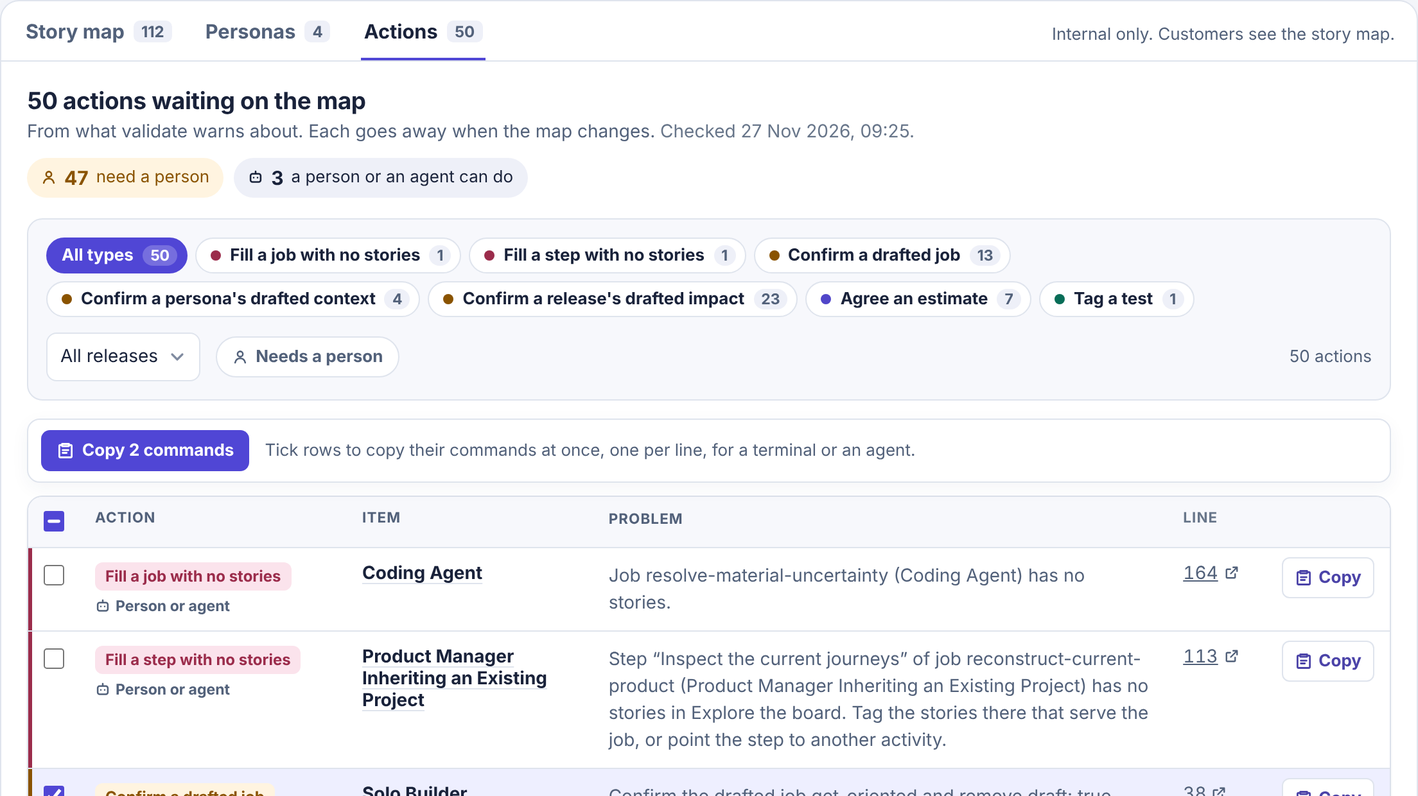
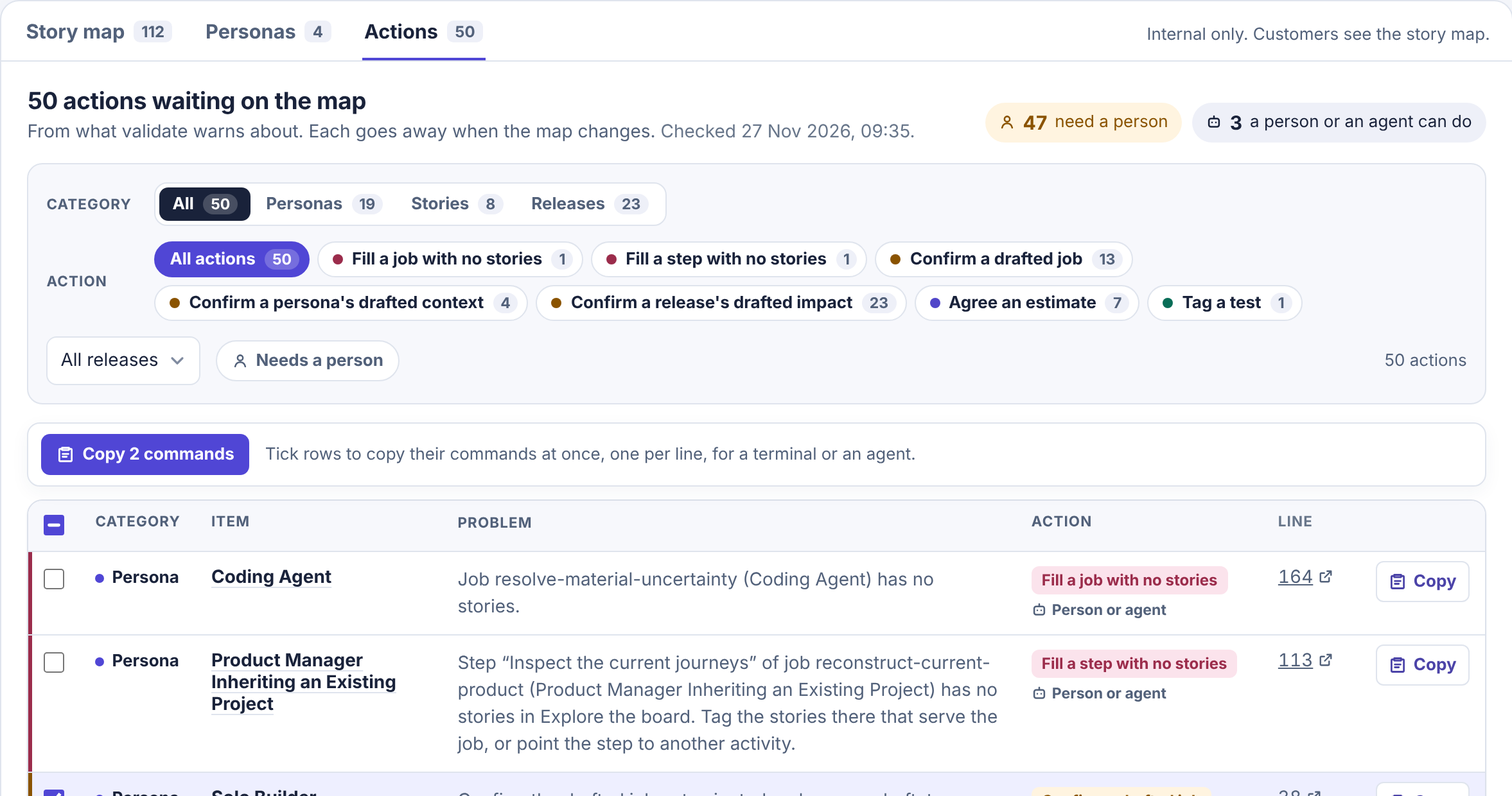
ESM-128: Add a Category column and filter, and move Action after Problem
Claude-Session: https://claude.ai/code/session_01Lq2MQQazU2F98gEqQ6vB8y

diff --git a/src/react.tsx b/src/react.tsx
@@ -5,7 +5,7 @@ import { releaseEstimatesText } from "./export.js";
 import { jobStepGaps, withoutFinalPunctuation } from "./personas.js";
 import { storyReadinessLabels, storyReadinessText } from "./readiness.js";
 import { storyMapAnchorId, storyMapPermalink } from "./permalink.js";
-import { filterStoryMapActions, countStoryMapActions, storyMapActionKinds, type StoryMapAction, type StoryMapActionFilter, type StoryMapActionGroup } from "./actions.js";
+import { filterStoryMapActions, countStoryMapActions, storyMapActionItemTypes, storyMapActionKinds, type StoryMapAction, type StoryMapActionFilter, type StoryMapActionGroup } from "./actions.js";
 import type { ReleaseImpact, StoryMapJob } from "./schema.js";
 import { storyMapAuthor, storyMapCommit, storyMapLicense, storyMapRepositoryUrl, storyMapVersion } from "./version.js";
 import type { InternalReleaseLabel, InternalStoryCard, PersonaJobLabel, PersonaLabel, ReleaseEstimates, StoryChangeEntry, StoryDependency, StoryHistoryEntry, StoryMapLabel, StoryMapRecentUpdates, StoryMapView, StoryTestLink } from "./view.js";
@@ -1882,6 +1882,7 @@ function actionsHref(filter: NonNullable<StoryMapView["filter"]>, preservedParam
   const params = boardParams(filter, preservedParams);
   params.set("view", "actions");
   if (actions.kind) params.set("action-kind", actions.kind);
+  if (actions.itemType) params.set("action-item-type", actions.itemType);
   if (actions.release) params.set("action-release", actions.release);
   if (actions.item) params.set("action-item", actions.item);
   if (actions.needsPerson) params.set("needs-person", "1");
@@ -1943,6 +1944,10 @@ function ActionKindBadge({ group }: { group: StoryMapActionGroup }) {
   return <span className="esm-kind" data-category={group.category} title={group.why}>{group.title}</span>;
 }
 
+/** What the Category column calls each kind of item. */
+const itemTypeLabels: Record<StoryMapAction["item"]["type"], string> = { persona: "Persona", story: "Story", release: "Release", map: "Map" };
+const itemTypePlurals: Record<StoryMapAction["item"]["type"], string> = { persona: "Personas", story: "Stories", release: "Releases", map: "Whole map" };
+
 /** One row of the Actions table: an action and the kind it belongs to. */
 interface ActionRow {
   group: StoryMapActionGroup;
@@ -1983,9 +1988,10 @@ function ActionTable({ rows, links, releaseTitles, tableId }: {
                   <input type="checkbox" data-esm-select-all="" aria-label="Choose every row with a command" />
                 </th>
               )}
-              <th scope="col" className="esm-action-kind">Action</th>
+              <th scope="col" className="esm-action-type">Category</th>
               <th scope="col">Item</th>
               <th scope="col" className="esm-action-message">Problem</th>
+              <th scope="col" className="esm-action-kind">Action</th>
               {showLine && <th scope="col" className="esm-action-line">Line</th>}
               {commands > 0 && <th scope="col" className="esm-action-copy-cell"><span className="esm-visually-hidden">Copy command</span></th>}
             </tr>
@@ -2001,17 +2007,18 @@ function ActionTable({ rows, links, releaseTitles, tableId }: {
                       {action.command && <input type="checkbox" data-esm-select={action.command} aria-label={`Choose ${group.title}: ${item?.label ?? ""}`} />}
                     </td>
                   )}
+                  <td className="esm-action-type"><span className="esm-item-type" data-item-type={action.item.type}>{itemTypeLabels[action.item.type]}</span></td>
+                  <th scope="row" className="esm-action-item">
+                    {item && (item.href ? <a href={item.href}>{item.label}</a> : <span>{item.label}</span>)}
+                    {release && <span className="esm-action-release">{release}</span>}
+                  </th>
+                  <td className="esm-action-message">{action.message}</td>
                   <td className="esm-action-kind">
                     <div className="esm-action-kind-stack">
                       <ActionKindBadge group={group} />
                       <WhoActs needsPerson={action.needsPerson} />
                     </div>
                   </td>
-                  <th scope="row" className="esm-action-item">
-                    {item && (item.href ? <a href={item.href}>{item.label}</a> : <span>{item.label}</span>)}
-                    {release && <span className="esm-action-release">{release}</span>}
-                  </th>
-                  <td className="esm-action-message">{action.message}</td>
                   {showLine && <td className="esm-action-line"><ActionLine action={action} links={links} /></td>}
                   {commands > 0 && <td className="esm-action-copy-cell">{action.command && <CopyCommandButton command={action.command} label={`${group.title}, ${item?.label ?? ""}`} />}</td>}
                 </tr>
@@ -2072,6 +2079,7 @@ function ActionsPage({ groups, filter, preservedParams, releases, links, checked
     return filterStoryMapActions(groups, rest);
   };
   const kindGroups = otherThan("kind");
+  const typeGroups = otherThan("itemType");
   const releaseIds = new Set(otherThan("release").flatMap(group => group.actions.flatMap(action => action.release ? [action.release] : [])));
   const releaseTitles = new Map(releases.map(release => [release.id, release.title]));
   const releaseTitle = (id: string) => releaseTitles.get(id) ?? id;
@@ -2096,10 +2104,24 @@ function ActionsPage({ groups, filter, preservedParams, releases, links, checked
       </div>
       {total > 0 && (
         <nav className="esm-actions-filters" aria-label="Filter actions">
-          <ul className="esm-kind-chips" aria-label="Action type">
+          <div className="esm-actions-filter-group">
+            <span className="esm-actions-filter-label" id={`${baseId}-category-label`}>Category</span>
+            <ul className="esm-segments" aria-labelledby={`${baseId}-category-label`}>
+              <li><a className="esm-segment" href={without("itemType")} aria-current={!chosen.itemType ? "true" : undefined}>All <span className="esm-kind-chip-count">{countStoryMapActions(typeGroups)}</span></a></li>
+              {storyMapActionItemTypes.flatMap(type => {
+                const count = typeGroups.reduce((sum, group) => sum + group.actions.filter(action => action.item.type === type).length, 0);
+                return count || chosen.itemType === type
+                  ? [<li key={type}><a className="esm-segment" data-item-type={type} href={href({ itemType: type })} aria-current={chosen.itemType === type ? "true" : undefined}>{itemTypePlurals[type]} <span className="esm-kind-chip-count">{count}</span></a></li>]
+                  : [];
+              })}
+            </ul>
+          </div>
+          <div className="esm-actions-filter-group">
+          <span className="esm-actions-filter-label" id={`${baseId}-action-label`}>Action</span>
+          <ul className="esm-kind-chips" aria-labelledby={`${baseId}-action-label`}>
             <li>
               <a className="esm-kind-chip" href={without("kind")} aria-current={!chosen.kind ? "true" : undefined}>
-                All types <span className="esm-kind-chip-count">{countStoryMapActions(kindGroups)}</span>
+                All actions <span className="esm-kind-chip-count">{countStoryMapActions(kindGroups)}</span>
               </a>
             </li>
             {kindGroups.map(group => (
@@ -2110,6 +2132,7 @@ function ActionsPage({ groups, filter, preservedParams, releases, links, checked
               </li>
             ))}
           </ul>
+          </div>
           <div className="esm-actions-filter-row">
             {releaseIds.size > 0 && (
               <ActionFilterMenu

diff --git a/styles.css b/styles.css
@@ -677,6 +677,19 @@ button.esm-persona-chip:hover { background: var(--esm-hover); }
 .esm-actions-intro .esm-actions-split span[data-person] { background: var(--esm-stalled-bg); color: var(--esm-stalled); }
 .esm-actions-split b { font-size: .9375rem; }
 .esm-actions-filters { display: grid; gap: 12px; margin: 0 0 14px; padding: 14px; border: 1px solid var(--esm-line); border-radius: 12px; background: var(--esm-canvas); }
+.esm-actions-filter-group { display: grid; grid-template-columns: 4.5rem minmax(0, 1fr); align-items: center; gap: 8px 12px; }
+.esm-actions-filter-label { color: var(--esm-muted); font-size: .7rem; font-weight: 750; letter-spacing: .05em; text-transform: uppercase; }
+.esm-segments { display: inline-flex; flex-wrap: wrap; justify-self: start; gap: 2px; margin: 0; padding: 3px; border: 1px solid var(--esm-line); border-radius: 10px; background: var(--esm-paper); list-style: none; }
+.esm-segment { display: inline-flex; align-items: center; gap: 7px; padding: 5px 10px; border-radius: 7px; color: var(--esm-muted); font-size: .8125rem; font-weight: 650; text-decoration: none; }
+.esm-segment:hover { background: var(--esm-hover); color: var(--esm-ink); }
+.esm-segment[aria-current] { background: var(--esm-ink); color: var(--esm-paper); }
+.esm-segment[aria-current] .esm-kind-chip-count { background: rgb(255 255 255 / .2); color: inherit; }
+.esm-item-type { display: inline-flex; align-items: center; gap: 6px; color: var(--esm-ink); font-size: .8125rem; font-weight: 650; white-space: nowrap; }
+.esm-item-type::before { content: ""; width: 7px; height: 7px; border-radius: 2px; background: var(--esm-faint); }
+.esm-item-type[data-item-type="persona"]::before { border-radius: 50%; background: var(--esm-persona-0); }
+.esm-item-type[data-item-type="story"]::before { background: var(--esm-status-in-progress); }
+.esm-item-type[data-item-type="release"]::before { background: var(--esm-lane-1-ink); }
+.esm-action-table .esm-action-type { width: 1%; }
 .esm-kind-chips { display: flex; flex-wrap: wrap; gap: 6px; margin: 0; padding: 0; list-style: none; }
 .esm-kind-chip { display: inline-flex; align-items: center; gap: 7px; padding: 5px 7px 5px 11px; border: 1px solid var(--esm-line); border-radius: 999px; background: var(--esm-paper); color: var(--esm-ink); font-size: .8125rem; font-weight: 650; text-decoration: none; }
 .esm-kind-chip:hover { border-color: var(--esm-card-hover); }
@@ -725,7 +738,7 @@ button.esm-persona-chip:hover { background: var(--esm-hover); }
 .esm-action-table tbody tr { box-shadow: inset 3px 0 0 var(--esm-kind-ink, transparent); }
 .esm-action-table tbody tr:hover { background: var(--esm-hover); }
 .esm-action-table tbody tr:has(input[data-esm-select]:checked) { background: var(--esm-activity-bg); }
-.esm-action-table .esm-action-kind { width: 13rem; }
+.esm-action-table .esm-action-kind { width: 12rem; }
 .esm-action-kind-stack { display: grid; justify-items: start; gap: 5px; }
 .esm-action-table .esm-action-item { min-width: 10rem; max-width: 18rem; font-weight: 650; }
 .esm-action-table .esm-action-item a { color: var(--esm-ink); text-decoration-color: var(--esm-line); text-underline-offset: 3px; }
@@ -929,6 +942,7 @@ button.esm-persona-chip:hover { background: var(--esm-hover); }
   .esm-persona-page { display: block; }
   .esm-actions { padding: 14px 12px 20px; }
   .esm-actions-filters .esm-results { margin-left: 0; flex-basis: 100%; }
+  .esm-actions-filter-group { grid-template-columns: 1fr; gap: 6px; }
   .esm-action .esm-action-line { margin-left: 0; }
   .esm-action-scroll { overflow: visible; }
   .esm-action-table thead { position: absolute; width: 1px; height: 1px; overflow: hidden; clip-path: inset(50%); white-space: nowrap; }

diff --git a/src/filter.ts b/src/filter.ts
@@ -1,4 +1,4 @@
-import { isStoryMapActionKind, type StoryMapActionFilter } from "./actions.js";
+import { isStoryMapActionItemType, isStoryMapActionKind, type StoryMapActionFilter } from "./actions.js";
 import { activeStoryStatuses, customerStoryStatuses, isActiveStatus, storyStatuses, type StoryStatusFilter } from "./status.js";
 import { jobStatement } from "./personas.js";
 import type { InternalStoryCard, StoryMapLabel, StoryMapView } from "./view.js";
@@ -78,7 +78,7 @@ function readStatuses(value: unknown): StoryStatusFilter[] {
  * `persona`, `job`, `activity` and `view` parameters, and a permalink's `story` or `release`. `status` can repeat, once for each chosen
  * status or `stalled`, and `status=all` chooses every status. `persona`, `job`
  * and `activity` repeat, once for each ID. `view=personas` opens the Personas
- * tab and `view=actions` the Actions tab, which reads `action-kind`, `action-release`,
+ * tab and `view=actions` the Actions tab, which reads `action-kind`, `action-item-type`, `action-release`,
  * `action-item` and `needs-person=1`. Unknown values are ignored.
  */
 export function readStoryMapFilters(params: URLSearchParams): StoryMapFilters {
@@ -93,10 +93,12 @@ export function readStoryMapFilters(params: URLSearchParams): StoryMapFilters {
   const viewParam = params.get("view");
   const view = viewParam === "personas" || viewParam === "actions" ? viewParam : undefined;
   const actionKind = params.get("action-kind") ?? undefined;
+  const actionItemType = params.get("action-item-type") ?? undefined;
   const [actionRelease] = readIds(params.getAll("action-release"));
   const [actionItem] = readIds(params.getAll("action-item"));
   const actions: StoryMapActionFilter = {
     ...(isStoryMapActionKind(actionKind) ? { kind: actionKind } : {}),
+    ...(isStoryMapActionItemType(actionItemType) ? { itemType: actionItemType } : {}),
     ...(actionRelease ? { release: actionRelease } : {}),
     ...(actionItem ? { item: actionItem } : {}),
     ...(params.get("needs-person") === "1" ? { needsPerson: true } : {}),
@@ -166,9 +168,10 @@ export function filterStoryMapView<View extends StoryMapView>(
   // Action filters only count for values the view has, so customers and unknown IDs change nothing.
   const actionFilter: StoryMapActionFilter = {};
   if (internal && filters.actions) {
-    const { kind, release, item, needsPerson } = filters.actions;
+    const { kind, itemType, release, item, needsPerson } = filters.actions;
     const itemIds = new Set(view.actions.flatMap(group => group.actions.flatMap(action => "id" in action.item ? [action.item.id] : [])));
     if (isStoryMapActionKind(kind)) actionFilter.kind = kind;
+    if (isStoryMapActionItemType(itemType)) actionFilter.itemType = itemType;
     if (release !== undefined && view.releases.some(entry => entry.id === release)) actionFilter.release = release;
     if (item !== undefined && itemIds.has(item)) actionFilter.item = item;
     if (needsPerson === true) actionFilter.needsPerson = true;

diff --git a/src/actions.ts b/src/actions.ts
@@ -261,6 +261,8 @@ export const countStoryMapActions = (groups: readonly StoryMapActionGroup[]) => 
 /** What the tab, a panel or `story-map actions` narrows the list to. Each is optional. */
 export interface StoryMapActionFilter {
   kind?: StoryMapWarningKind;
+  /** Only actions on this kind of item: stories, releases, personas or the map as a whole. */
+  itemType?: StoryMapActionItem["type"];
   /** Only actions in this release. */
   release?: string;
   /** Only actions on this story, release or persona. */
@@ -275,7 +277,8 @@ export function filterStoryMapActions(groups: readonly StoryMapActionGroup[], fi
     if (filter.kind && group.kind !== filter.kind) return [];
     if (filter.needsPerson && !group.needsPerson) return [];
     const actions = group.actions.filter(action =>
-      (!filter.release || action.release === filter.release)
+      (!filter.itemType || action.item.type === filter.itemType)
+      && (!filter.release || action.release === filter.release)
       && (!filter.item || ("id" in action.item && action.item.id === filter.item)));
     return actions.length ? [{ ...group, actions }] : [];
   });
@@ -284,3 +287,10 @@ export function filterStoryMapActions(groups: readonly StoryMapActionGroup[], fi
 /** True when `value` names a kind of action. */
 export const isStoryMapActionKind = (value: unknown): value is StoryMapWarningKind =>
   typeof value === "string" && (storyMapWarningKinds as readonly string[]).includes(value);
+
+/** The kinds of item an action can be on, in the order the Actions tab offers them. */
+export const storyMapActionItemTypes = ["persona", "story", "release", "map"] as const satisfies readonly StoryMapActionItem["type"][];
+
+/** True when `value` names a kind of item. */
+export const isStoryMapActionItemType = (value: unknown): value is StoryMapActionItem["type"] =>
+  typeof value === "string" && (storyMapActionItemTypes as readonly string[]).includes(value);

diff --git a/src/cli.ts b/src/cli.ts
@@ -28,7 +28,7 @@ const usage = `Usage:
   story-map story [--format text|json] [--map <path>] [--history <file>] [--tests-index <file>] <ID> [...]
   story-map stories [--format text|json] [--map <path>] [--status <status>] [--release <ID>] [--activity <ID>] [--persona <ID>] [--job <ID>] [--readiness <state>] [--query <text>] [--changed-within <days>] [--history <file>] [--tests-index <file>]
   story-map releases [--format text|json] [--map <path>] [--history <file>] [--tests-index <file>] [<release ID> ...]
-  story-map actions [--format text|json] [--map <path>] [--kind <kind>] [--release <ID>] [--needs-person] [--tests <path> | --tests-index <file>] [--root <path>]
+  story-map actions [--format text|json] [--map <path>] [--kind <kind>] [--item-type <type>] [--release <ID>] [--needs-person] [--tests <path> | --tests-index <file>] [--root <path>]
   story-map evidence [--format text|json] [--map <path>] [--root <path>] [--default-branch <name>] [--plans <path>] [--tests <path>] [--history <file>] [--shipped-tags <pattern>] [--claims] [--claims-remote <name>] [--claims-store <dir>] [<ID> ...]
   story-map survey [--format text|json] [--root <path>] [--tags <pattern>] [--changelog <file>] [--docs <path>] [--plans <path>]
   story-map claim [--format text|json] [--map <path>] [--remote <name>] [--store <dir>] --agent <name> [--ttl <duration>] [--branch <name>] [--renew | --take-over] <ID>
@@ -182,6 +182,7 @@ actions
   --format json      Print the groups and actions as JSON.
   --map <path>       Map to read. Defaults to product/story-map.yaml.
   --kind <kind>      Only actions of this kind, such as missing-estimate.
+  --item-type <type> Only actions on a persona, story, release or the map.
   --release <ID>     Only actions on this release or its stories.
   --needs-person     Only actions a person must take.
   --tests <path>     Scan tests under <path>, as validate --tests does, so

diff --git a/src/commands/actions.ts b/src/commands/actions.ts
@@ -1,5 +1,5 @@
 import { resolve } from "node:path";
-import { countStoryMapActions, filterStoryMapActions, getStoryMapActions, isStoryMapActionKind, storyMapActionKindOrder, type StoryMapAction, type StoryMapActionFilter } from "../actions.js";
+import { countStoryMapActions, filterStoryMapActions, getStoryMapActions, isStoryMapActionItemType, isStoryMapActionKind, storyMapActionItemTypes, storyMapActionKindOrder, type StoryMapAction, type StoryMapActionFilter } from "../actions.js";
 import { buildStoryMapTests, findStoryTests } from "../tests.js";
 import type { StoryMapTests } from "../tests-index.js";
 import { ArgumentError, count, defineCommand, escapeText, loadInputsOrReport, loadMapOrReport, optionValue, printJson, readFormat, report } from "./shared.js";
@@ -39,6 +39,10 @@ export default defineCommand({
         const kind = value();
         if (!isStoryMapActionKind(kind)) throw new ArgumentError(`--kind must be one of ${storyMapActionKindOrder.join(", ")}`);
         options.filter.kind = kind;
+      } else if (name === "--item-type") {
+        const type = value();
+        if (!isStoryMapActionItemType(type)) throw new ArgumentError(`--item-type must be one of ${storyMapActionItemTypes.join(", ")}`);
+        options.filter.itemType = type;
       } else if (arg === "--needs-person") options.filter.needsPerson = true;
       else return null;
     }

diff --git a/src/index.ts b/src/index.ts
@@ -8,7 +8,7 @@ export {
   storyMapWarnings,
   storyStatuses,
 } from "./schema.js";
-export { countStoryMapActions, filterStoryMapActions, getStoryMapActions, isStoryMapActionKind, storyMapActionKindOrder, storyMapActionKinds, untestedStoryWarnings } from "./actions.js";
+export { countStoryMapActions, filterStoryMapActions, getStoryMapActions, isStoryMapActionItemType, isStoryMapActionKind, storyMapActionItemTypes, storyMapActionKindOrder, storyMapActionKinds, untestedStoryWarnings } from "./actions.js";
 export type { StoryMapAction, StoryMapActionCategory, StoryMapActionFilter, StoryMapActionGroup, StoryMapActionItem, StoryMapActionKindInfo, StoryMapActionOptions } from "./actions.js";
 export { defaultStalledAfterWeeks, estimatePoints, jobStatementMaxLength, jobStepsMaxItems, jobStepTitleMaxLength, personaConstraintsMaxItems, personaContextMaxLength, personaJobsMaxItems, personaSuccessMaxLength, personasMaxItems, personaUsesTodayMaxItems, personaUsesTodayMaxLength, releaseImpactMaxItems, releaseNotesMaxLength, storyDependsOnMaxItems, storyPersonasMaxItems } from "./schema.js";
 export type { EstimatePoints, ReleaseImpact, StoryMapDocument, StoryMapJob, StoryMapJobStep, StoryMapPersona, StoryMapPersonaContext, StoryMapIssue, StoryMapIssueSeverity, StoryMapWarning, StoryMapWarningKind, StoryStatus } from "./schema.js";

diff --git a/docs/story-map.md b/docs/story-map.md
@@ -650,11 +650,11 @@ The schema covers the shape of each field. Run the validator for the checks that
 
 Most warnings ask someone to do something: confirm a drafted job, agree an estimate, tag a test. Internal boards list them on an **Actions** tab, next to **Story map** and **Personas**, so people who never run the CLI see them too. Its count is the number of actions on the whole map, whatever the board's filters show.
 
-The tab opens with how many actions are waiting, and how many need a person, then lists every action in one table. Each row has its action type, as a badge coloured by category: gaps (a job, a job's step or a persona with no stories, stories that say nothing about who they are for, a story for a persona that serves none of their jobs), drafts to confirm (jobs, personas' context and releases' impact), estimates to agree, tests to tag, and the rest (a release with no impact, a blocked or cut story with no reason, a dependency on cut work). Rows follow that order, then the releases in map order, then the map. Each row says who can act, **Needs a person** or **Person or agent**, links to its story, release or persona, with a story's release under it, and shows the problem and its line in the map. Where a command fixes it, the row has a **Copy** button that copies the command, such as `npx story-map confirm get-oriented --write`, without showing it. A `<…>` in a command marks a value to fill in. Estimates have no command, because only the team agrees one.
+The tab opens with how many actions are waiting, and how many need a person, then lists every action in one table. Its columns are **Category**, what the item is (a persona, story, release or the whole map), **Item**, **Problem**, **Action** and **Line**. The action is a badge coloured by its kind: gaps (a job, a job's step or a persona with no stories, stories that say nothing about who they are for, a story for a persona that serves none of their jobs), drafts to confirm (jobs, personas' context and releases' impact), estimates to agree, tests to tag, and the rest (a release with no impact, a blocked or cut story with no reason, a dependency on cut work). Rows follow that order, then the releases in map order, then the map. Each row says who can act, **Needs a person** or **Person or agent**, links to its story, release or persona, with a story's release under it, and shows the problem and its line in the map. Where a command fixes it, the row has a **Copy** button that copies the command, such as `npx story-map confirm get-oriented --write`, without showing it. A `<…>` in a command marks a value to fill in. Estimates have no command, because only the team agrees one.
 
 To act on several items at once, tick their rows, or the box in the table's header for every row with a command, and choose **Copy N commands**. It copies the chosen rows' commands, one per line, to paste into a terminal or an agent's chat.
 
-Filter the table by action type with the chips above it, each with its count, by release, or to **Needs a person**. The filters are links, so they work without JavaScript, and each offers only the choices that match the other filters. **Copy** and the row checkboxes need [`board.js`](#integrate-with-a-product): without it the table only reads, and `story-map actions` prints the commands. An empty tab says “Nothing is waiting on the map” and when it was checked. Story and release panels and each persona's page show their own actions, each with its **Copy** button, and a link to the tab narrowed to them. Cards show nothing new.
+Filter the table by category and by action, each choice with its count, by release, or to **Needs a person**. The filters are links, so they work without JavaScript, and each offers only the choices that match the other filters. **Copy** and the row checkboxes need [`board.js`](#integrate-with-a-product): without it the table only reads, and `story-map actions` prints the commands. An empty tab says “Nothing is waiting on the map” and when it was checked. Story and release panels and each persona's page show their own actions, each with its **Copy** button, and a link to the tab narrowed to them. Cards show nothing new.
 
 Nothing is dismissed by hand: an action goes away when the map changes. The tab lists validate's warnings about the map and, when the host passes a [tests index](#link-tests-to-stories), in-progress and merged stories that no test names. Checks that need the repository's files, such as missing sources, are not on the tab. The customer view never includes actions.
 
@@ -666,6 +666,7 @@ At a terminal, `story-map actions` prints the same list, with lines:
 npx --no-install story-map actions --tests test
 npx --no-install story-map actions --needs-person --release v0-7-6
 npx --no-install story-map actions --format json --kind missing-estimate
+npx --no-install story-map actions --item-type persona
 ```
 
 `--tests <path>` scans tests as `validate --tests` does, and `--tests-index <file>` reads `story-map tests` output instead. It exits 0 whatever it finds. Agents may act on actions that do not need a person. They must leave the others, drafts and estimates, to a person. In code, `getStoryMapActions(document, { tests, locate })` returns the groups.
@@ -1086,7 +1087,7 @@ Pass `webAgents` to the board, and each **Share** menu gets an **Open in Claude*
 
 1. Package or install the library and commit the product’s map under `product/`. Include that directory in the server deployment, outside the static asset directory.
 2. In the product’s authenticated server route, read the YAML as UTF-8 and pass the text to `parseStoryMap`. Call `getStoryMapPage(document, viewer, { searchParams: url.searchParams })` with roles from the verified session. Pass `null` for a guest. A null result means no access: answer 401 for a guest and 403 for anyone else. By default, viewers whose roles include `engineer` or `super-admin` see the internal map. To use your own rule, pass `canViewInternal`, for example `getStoryMapPage(document, viewer, { canViewInternal: viewer => viewer.roles.includes("product"), searchParams: url.searchParams })`. The rule receives the viewer object you passed, so it can check permissions as well as roles. Only a return value of `true` grants the internal view.
-3. `getStoryMapPage` projects the map for the viewer and then applies the search and filters from `searchParams`, so a search only sees what the viewer may see. The board then shows a search box and status filter. Blocked and cut stories are hidden unless the viewer ticks them in the status filter or passes `status=all`. The toolbar submits a GET form with `q`, `status`, `changed`, `persona`, `job` and `activity` parameters, where `status`, `persona`, `job` and `activity` repeat once per choice, such as `?status=planned&status=stalled`, to the current page, so the host must pass the page’s query string through. Use the `preservedParams` prop to keep any other parameters the page needs. On internal boards of maps with personas, `view=personas` opens the [Personas tab](#personas-tab) in place of the map, and `view=actions` the [Actions tab](#see-what-the-map-is-waiting-for), with its `action-kind`, `action-release`, `action-item` and `needs-person` filters, so the host must render the board for them as for any other filter. If you need the steps separately, `getStoryMapPage` is the same as `filterStoryMapView(getStoryMapForViewer(document, viewer, options), readStoryMapFilters(url.searchParams), { now })`. Always filter after projecting, never before.
+3. `getStoryMapPage` projects the map for the viewer and then applies the search and filters from `searchParams`, so a search only sees what the viewer may see. The board then shows a search box and status filter. Blocked and cut stories are hidden unless the viewer ticks them in the status filter or passes `status=all`. The toolbar submits a GET form with `q`, `status`, `changed`, `persona`, `job` and `activity` parameters, where `status`, `persona`, `job` and `activity` repeat once per choice, such as `?status=planned&status=stalled`, to the current page, so the host must pass the page’s query string through. Use the `preservedParams` prop to keep any other parameters the page needs. On internal boards of maps with personas, `view=personas` opens the [Personas tab](#personas-tab) in place of the map, and `view=actions` the [Actions tab](#see-what-the-map-is-waiting-for), with its `action-kind`, `action-item-type`, `action-release`, `action-item` and `needs-person` filters, so the host must render the board for them as for any other filter. If you need the steps separately, `getStoryMapPage` is the same as `filterStoryMapView(getStoryMapForViewer(document, viewer, options), readStoryMapFilters(url.searchParams), { now })`. Always filter after projecting, never before.
 4. Render `StoryMapBoard` using the returned view and import `auto-story-map/styles.css` through the host’s CSS pipeline. Pass `sourceBaseUrl` if the map uses [repository-relative Markdown links](#link-an-engineering-overview). The board is light by default. Pass `theme="dark"` for a dark host, or `theme="auto"` to follow the viewer’s system setting. Colours are CSS custom properties on `.esm-board`, such as `--esm-accent`, so a host can override them. A footer under the board shows the running version of Auto Story Map and the short hash of the commit it was built from, its author and its licence. Internal viewers also get links to the commit, changelog, source code, licence and author. Pass `showVersion={false}` to remove it. Viewers can collapse a release lane to its title and story count with the chevron in its header, which needs no JavaScript but does need a browser that supports CSS `:has()`; other browsers show every lane open with no toggle. The grid scrolls in its own box, no taller than the window, so the activity titles and the release column stay in view. It leaves 7.5rem for the content below it. If the host has a fixed header or a taller footer, set the box’s height on `.esm-board`, such as `--esm-board-height: calc(100dvh - 12rem)`, or set it to `none` to scroll with the page as before. With `board.js`, below, each release’s name also stays beside its lane and the activity row shrinks to its titles. To apply filters as soon as a viewer changes them, also load the optional browser script: serve `node_modules/auto-story-map/dist/board.js` (exported as `auto-story-map/board.js`) with the host’s other static files and add `<script type="module" src="…/board.js"></script>` to the page. It hides **Apply**, applies a select as soon as it changes and a search when the viewer presses Enter, returns focus to the filter they used, and remembers which release lanes the viewer collapsed, adding them to the [export links](#download-from-the-board). Without it, the form works as before, and collapsed lanes open again when the page reloads. Use the same server-side projection and filters if adding a JSON endpoint.
 5. Send `storyMapResponseHeaders` with the page and endpoint, including error responses. They set `Cache-Control: private, no-store`, because the page differs per viewer, and `X-Content-Type-Options: nosniff`. Keep the raw YAML and parsed document on the server. The localhost demo’s role selector is for testing sample data.
 

diff --git a/CHANGELOG.md b/CHANGELOG.md
@@ -4,7 +4,7 @@ All notable changes to `auto-story-map` are recorded here. The project follows [
 
 ## Unreleased
 
-- **See what the map is waiting for:** Internal boards have an **Actions** tab next to **Story map** and **Personas**. It lists what validate warns about in one table, with each action's type as a badge coloured by category: gaps, drafts to confirm, estimates, tests and the rest. Each row says who can act, links to its story, release or persona, and shows the problem and its line, and a **Copy** button copies the command that fixes it. Tick several rows to copy their commands at once, one per line. Chips filter by action type, with counts, and the table also filters by release and **Needs a person**, with links that work without JavaScript. Story and release panels and persona pages show their own actions. `story-map actions` prints the same list for agents and people at a terminal, and `validate --format json` gives each warning a `kind`. Pass `mapFile` to `getStoryMapPage` to show each action's line. Customers never see actions. See [See what the map is waiting for](https://github.com/duncan-m/auto-story-map/blob/main/docs/story-map.md#see-what-the-map-is-waiting-for).
+- **See what the map is waiting for:** Internal boards have an **Actions** tab next to **Story map** and **Personas**. It lists what validate warns about in one table, with each action's type as a badge coloured by category: gaps, drafts to confirm, estimates, tests and the rest. Each row says who can act, links to its story, release or persona, and shows the problem and its line, and a **Copy** button copies the command that fixes it. Tick several rows to copy their commands at once, one per line. Columns run Category (persona, story, release or map), Item, Problem, Action and Line. The table filters by category and by action, with counts, and by release and **Needs a person**, with links that work without JavaScript. Story and release panels and persona pages show their own actions. `story-map actions` prints the same list for agents and people at a terminal, and `validate --format json` gives each warning a `kind`. Pass `mapFile` to `getStoryMapPage` to show each action's line. Customers never see actions. See [See what the map is waiting for](https://github.com/duncan-m/auto-story-map/blob/main/docs/story-map.md#see-what-the-map-is-waiting-for).
 - **Change a story from the board:** Internal story panels have a **Change** section with status, reason and release pickers. The board does not save: it shows the matching `story-map edit` command, with each value quoted for the shell, and a **Copy** button, to paste into a terminal or an agent's chat. It needs `board.js`. Internal viewers only. See [Change a story from the board](https://github.com/duncan-m/auto-story-map/blob/main/docs/story-map.md#change-a-story-from-the-board).
 - **Save status and release changes from the local preview:** On `story-map preview`, the story panel's **Change** section has a **Save** button that writes the new status, reason or release to the map file, through the same checks as `story-map edit --write`, then reopens the panel. The preview's edit route now accepts `status` and `release` operations beside persona edits, and still refuses a page older than the file, another origin, or a request without its token. `--read-only` turns it off. A host's board saves the same way with the new `storyEditing` prop, set from `createStoryMapEditServer`'s `read`. Deployed boards stay read-only. See [Save from the local preview](https://github.com/duncan-m/auto-story-map/blob/main/docs/story-map.md#save-from-the-local-preview).
 - **Edit personas in your own app running locally:** A host's board can now edit personas on the Personas tab, like `story-map preview`, while the app runs on your machine. `createStoryMapEditServer` gains `read(request)`, which reads the map on each request and returns edit props only for a loopback `Host` outside a production build, and `handleRequest(request)` for Fetch routes such as App Router, vinext, Remix, Hono and Workers. Its new `authorize` option is required, so a host decides who may edit: pass the same rule as the board's `canViewInternal`. An internal Personas tab opened from `localhost` without a save route notes that editing is not set up, with a link to the steps; `personaEditing={false}` skips the note. Deployed boards stay read-only. See [In your own app](https://github.com/duncan-m/auto-story-map/blob/main/docs/story-map.md#in-your-own-app).

diff --git a/docs/ENGINEERING-OVERVIEW.md b/docs/ENGINEERING-OVERVIEW.md
@@ -281,7 +281,7 @@ History lines and the “Last updated” time link to their pull request and com
 
 ### Actions tab
 
-`getStoryMapForViewer` attaches `actions`, from `getStoryMapActions`, and `actionsCheckedAt` to internal views only, before any filter, so the tab's count does not move with the filters. With `tests`, stories no test names are actions too. With `mapFile`, it parses the source once more for `locate`, so each action carries its `line`, and the view carries `mapPath` for the board to link it with `sourceBaseUrl`. The customer projection is an allow-list and never copies them. `filterStoryMapView` reads `view=actions` and the `action-kind`, `action-release`, `action-item` and `needs-person` parameters into `filter.actions`, keeping only kinds, releases and items the view has. The board narrows the list itself with `filterStoryMapActions`. `ActionsPage` replaces the map, its toolbar and panels, as the Personas tab does. `ItemActions` renders an item's own actions in story and release panels and on the persona page, matching both the item's type and ID, because IDs are only unique within their list. `ActionTable` renders every shown action in one table, a row per action, marked with `data-kind` and `data-category`. The category sets `--esm-kind-ink` and `--esm-kind-bg` from existing palette properties, so the badges and row edges need no new colours in the three palettes. Commands are never shown: each row's **Copy** button carries its command in `data-esm-copy-command`, and when the table has more than one command each such row's checkbox carries it in `data-esm-select`. `enhanceStoryMapActions` in board.js shows the buttons and checkboxes once the clipboard can be used, sets `data-esm-actions` on the board so CSS shows the checkbox column, keeps the select-all box and **Copy N commands** in step with the ticked rows, and copies their commands one per line. Without it the tables only read. Nothing is dismissed: an action goes away when the map changes, so the tab, the CLI and validate never disagree.
+`getStoryMapForViewer` attaches `actions`, from `getStoryMapActions`, and `actionsCheckedAt` to internal views only, before any filter, so the tab's count does not move with the filters. With `tests`, stories no test names are actions too. With `mapFile`, it parses the source once more for `locate`, so each action carries its `line`, and the view carries `mapPath` for the board to link it with `sourceBaseUrl`. The customer projection is an allow-list and never copies them. `filterStoryMapView` reads `view=actions` and the `action-kind`, `action-item-type`, `action-release`, `action-item` and `needs-person` parameters into `filter.actions`, keeping only kinds, item types, releases and items the view has. The board narrows the list itself with `filterStoryMapActions`. `ActionsPage` replaces the map, its toolbar and panels, as the Personas tab does. `ItemActions` renders an item's own actions in story and release panels and on the persona page, matching both the item's type and ID, because IDs are only unique within their list. `ActionTable` renders every shown action in one table, a row per action, marked with `data-kind` and `data-category`. The category sets `--esm-kind-ink` and `--esm-kind-bg` from existing palette properties, so the badges and row edges need no new colours in the three palettes. Commands are never shown: each row's **Copy** button carries its command in `data-esm-copy-command`, and when the table has more than one command each such row's checkbox carries it in `data-esm-select`. `enhanceStoryMapActions` in board.js shows the buttons and checkboxes once the clipboard can be used, sets `data-esm-actions` on the board so CSS shows the checkbox column, keeps the select-all box and **Copy N commands** in step with the ticked rows, and copies their commands one per line. Without it the tables only read. Nothing is dismissed: an action goes away when the map changes, so the tab, the CLI and validate never disagree.
 
 ### Filter toolbar
 
